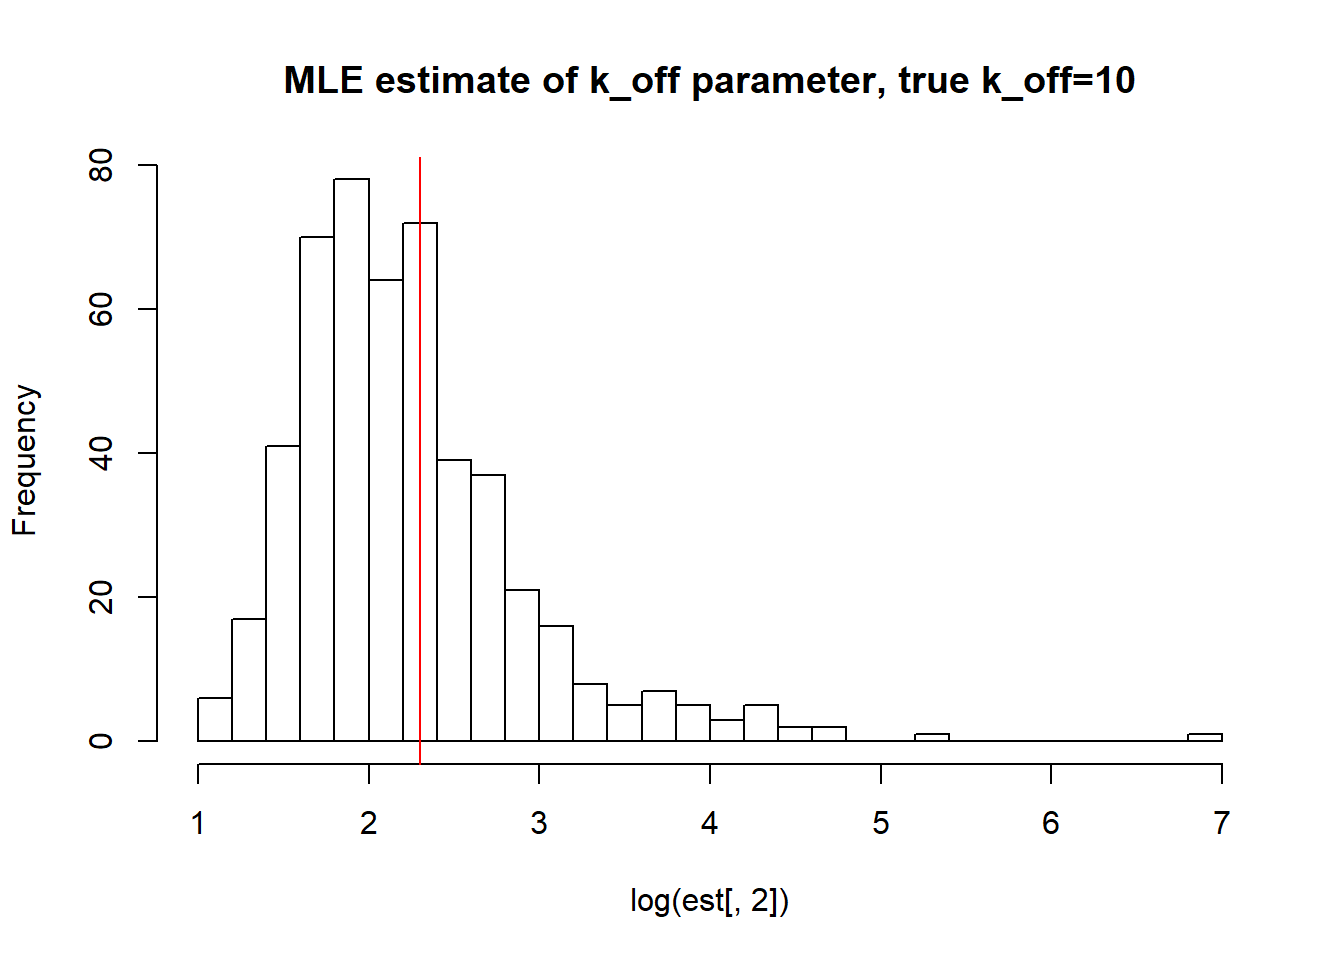
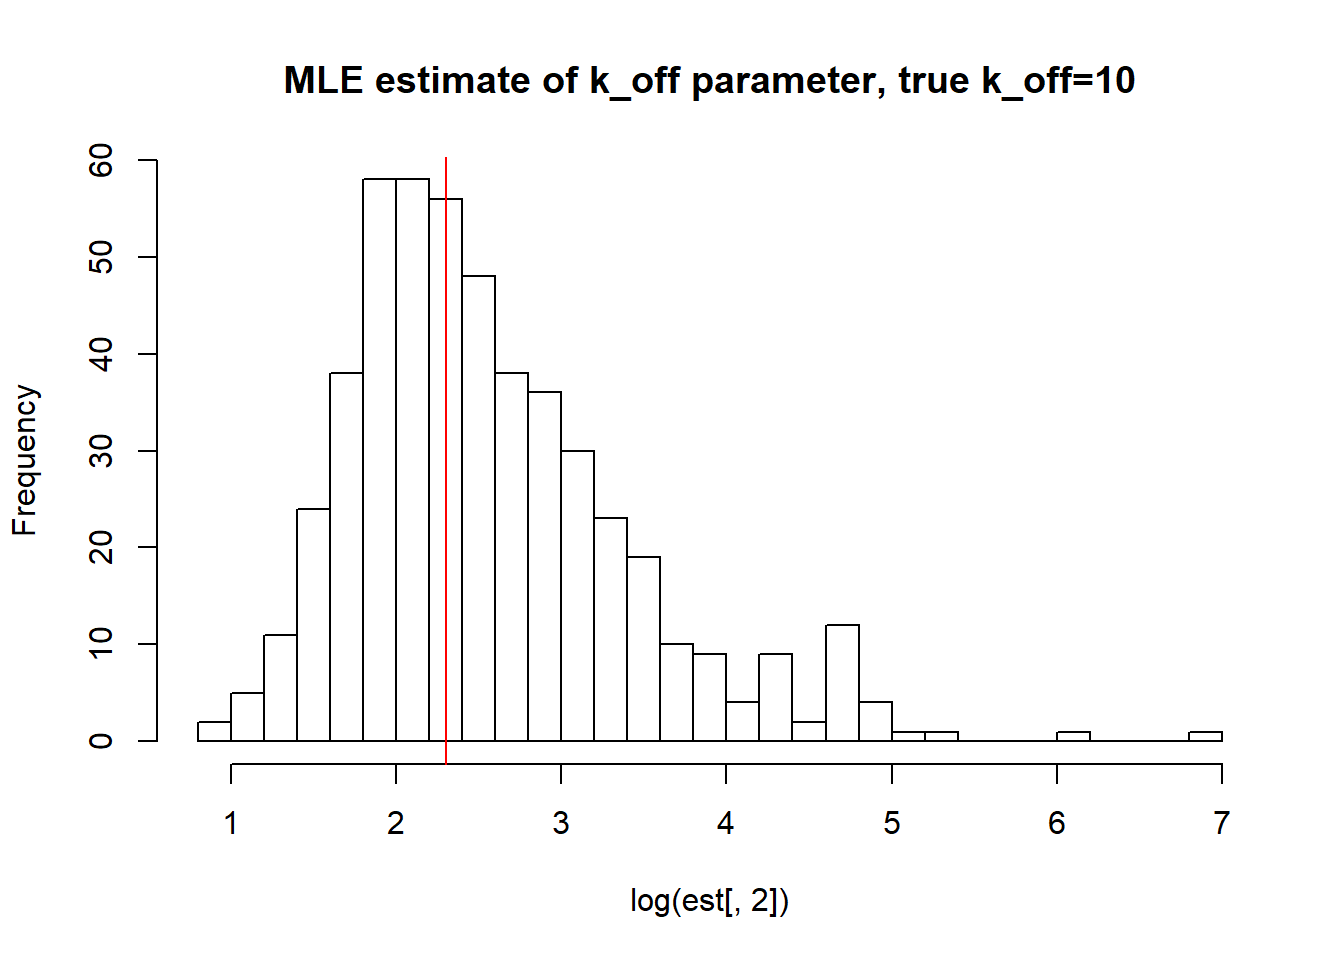
Build site.

diff --git a/docs/MLE_bootstrap.html b/docs/MLE_bootstrap.html
@@ -458,10 +458,10 @@ analysis/MLE.py
 <div class="panel panel-default">
 <div class="panel-heading">
 <p class="panel-title">
-<a data-toggle="collapse" data-parent="#workflowr-checks" href="#strongRepositoryversionstrongahrefhttpsgithubcomMargareth2407ThesissingleRNAtreeab73059f98ed74b5816c7fc37684c33936945d5atargetblankab73059a"> <span class="glyphicon glyphicon-ok text-success" aria-hidden="true"></span> <strong>Repository version:</strong> <a href="https://github.com/Margareth2407/Thesis_single_RNA/tree/ab73059f98ed74b5816c7fc37684c33936945d5a" target="_blank">ab73059</a> </a>
+<a data-toggle="collapse" data-parent="#workflowr-checks" href="#strongRepositoryversionstrongahrefhttpsgithubcomMargareth2407ThesissingleRNAtreed861a59b3615c3fab8299aaede39d0d78805e754targetblankd861a59a"> <span class="glyphicon glyphicon-ok text-success" aria-hidden="true"></span> <strong>Repository version:</strong> <a href="https://github.com/Margareth2407/Thesis_single_RNA/tree/d861a59b3615c3fab8299aaede39d0d78805e754" target="_blank">d861a59</a> </a>
 </p>
 </div>
[2 lines of base64/hex data omitted]
 <div class="panel-body">
 <p>
 Great! You are using Git for version control. Tracking code development and connecting the code version to the results is critical for reproducibility. The version displayed above was the version of the Git repository at the time these results were generated. <br><br> Note that you need to be careful to ensure that all relevant files for the analysis have been committed to Git prior to generating the results (you can use <code>wflow_publish</code> or <code>wflow_git_commit</code>). workflowr only checks the R Markdown file, but you know if there are other scripts or data files that it depends on. Below is the status of the Git repository when the results were generated:
@@ -470,11 +470,9 @@ Great! You are using Git for version control. Tracking code development and conn
 Ignored files:
     Ignored:    .RData
     Ignored:    .Rhistory
-    Ignored:    analysis/figure/
 
 Unstaged changes:
     Modified:   Data_sim.Rmd
-    Modified:   analysis/MLE.py
 
 </code></pre>
 <p>
@@ -525,44 +523,44 @@ hist(log(est[,1]),breaks=30, main=&quot;MLE estimate of k_on parameter,true k_on
 abline(v=log(0.1),col=&#39;red&#39;)</code></pre>
 <p><img src="figure/MLE_bootstrap.Rmd/unnamed-chunk-3-1.png" width="672" style="display: block; margin: auto;" /></p>
 <pre class="r"><code>paste(&quot;true k_on is 0.1;&quot;,&quot;k_on mean;&quot;,round(mean(est[,1],na.rm=TRUE),3),&quot;k_on median&quot;, round(median(est[,1],na.rm=TRUE),3),&quot;k_on st.deviation&quot;,round(sqrt(var(est[,1])),3))</code></pre>
-<pre><code>[1] &quot;true k_on is 0.1; k_on mean; 0.11 k_on median 0.109 k_on st.deviation 0.01&quot;</code></pre>
+<pre><code>[1] &quot;true k_on is 0.1; k_on mean; 0.088 k_on median 0.088 k_on st.deviation 0.009&quot;</code></pre>
 <pre class="r"><code>hist(log(est[,2]),breaks=30, main=&quot;MLE estimate of k_off parameter, true k_off=0.1&quot;)
 abline(v=log(0.1),col=&#39;red&#39;)</code></pre>
 <p><img src="figure/MLE_bootstrap.Rmd/unnamed-chunk-3-2.png" width="672" style="display: block; margin: auto;" /></p>
 <pre class="r"><code>paste(&quot;true k_off is 0.1;&quot;,&quot;k_off mean;&quot;,round(mean(est[,2],na.rm=TRUE),3),&quot;k_off median&quot;, round(median(est[,2],na.rm=TRUE),3),&quot;k_off st.deviation&quot;,round(sqrt(var(est[,2])),3))</code></pre>
-<pre><code>[1] &quot;true k_off is 0.1; k_off mean; 0.112 k_off median 0.111 k_off st.deviation 0.012&quot;</code></pre>
+<pre><code>[1] &quot;true k_off is 0.1; k_off mean; 0.079 k_off median 0.078 k_off st.deviation 0.01&quot;</code></pre>
 <pre class="r"><code>hist(log(est[,3]),breaks=30, main=&quot;MLE estimate of k_r parameter,true k_r=100&quot;)
 abline(v=log(100),col=&#39;red&#39;)</code></pre>
 <p><img src="figure/MLE_bootstrap.Rmd/unnamed-chunk-3-3.png" width="672" style="display: block; margin: auto;" /></p>
 <pre class="r"><code>paste(&quot;true k_r is 100;&quot;,&quot;k_r mean;&quot;,round(mean(est[,3],na.rm=TRUE),3),&quot;k_r median&quot;, round(median(est[,3],na.rm=TRUE),3),&quot;k_r st.deviation&quot;,round(sqrt(var(est[,3])),3))</code></pre>
-<pre><code>[1] &quot;true k_r is 100; k_r mean; 99.802 k_r median 99.826 k_r st.deviation 0.777&quot;</code></pre>
+<pre><code>[1] &quot;true k_r is 100; k_r mean; 100.445 k_r median 100.381 k_r st.deviation 0.825&quot;</code></pre>
 </div>
 <div id="ii-large-k_on-and-k_off-case" class="section level2">
 <h2>II) Large <span class="math inline">\(k_{on}\)</span> and <span class="math inline">\(k_{off}\)</span> case:</h2>
 <p><img src="figure/MLE_bootstrap.Rmd/unnamed-chunk-4-1.png" width="672" style="display: block; margin: auto;" /></p>
-<pre><code>[1] &quot;true k_on is 10; k_on mean; 8.146 k_on median 8.024 k_on st.deviation 1.514&quot;</code></pre>
+<pre><code>[1] &quot;true k_on is 10; k_on mean; 16.153 k_on median 16.332 k_on st.deviation 3.248&quot;</code></pre>
 <p><img src="figure/MLE_bootstrap.Rmd/unnamed-chunk-4-2.png" width="672" style="display: block; margin: auto;" /></p>
-<pre><code>[1] &quot;true k_off is 10; k_off mean; 5.848 k_off median 5.265 k_off st.deviation 3.064&quot;</code></pre>
+<pre><code>[1] &quot;true k_off is 10; k_off mean; 113.96 k_off median 53.095 k_off st.deviation 160.804&quot;</code></pre>
 <p><img src="figure/MLE_bootstrap.Rmd/unnamed-chunk-4-3.png" width="672" style="display: block; margin: auto;" /></p>
-<pre><code>[1] &quot;true k_r is 100; k_r mean; 83.463 k_r median 81.537 k_r st.deviation 10.192&quot;</code></pre>
+<pre><code>[1] &quot;true k_r is 100; k_r mean; 374.776 k_r median 216.205 k_r st.deviation 575.336&quot;</code></pre>
 </div>
 <div id="iii-large-value-if-k_off-and-small-k_on-case" class="section level2">
 <h2>III) Large value if <span class="math inline">\(k_{off}\)</span> and small <span class="math inline">\(k_{on}\)</span> case:</h2>
 <p><img src="figure/MLE_bootstrap.Rmd/unnamed-chunk-5-1.png" width="672" style="display: block; margin: auto;" /></p>
-<pre><code>[1] &quot;true k_on is 1; k_on mean; 1.054 k_on median 1.051 k_on st.deviation 0.099&quot;</code></pre>
+<pre><code>[1] &quot;true k_on is 1; k_on mean; 1.032 k_on median 1.029 k_on st.deviation 0.1&quot;</code></pre>
 <p><img src="figure/MLE_bootstrap.Rmd/unnamed-chunk-5-2.png" width="672" style="display: block; margin: auto;" /></p>
-<pre><code>[1] &quot;true k_off is 10; k_off mean; 14.419 k_off median 8.166 k_off st.deviation 46.742&quot;</code></pre>
+<pre><code>[1] &quot;true k_off is 10; k_off mean; 22.109 k_off median 10.878 k_off st.deviation 53.564&quot;</code></pre>
 <p><img src="figure/MLE_bootstrap.Rmd/unnamed-chunk-5-3.png" width="672" style="display: block; margin: auto;" /></p>
-<pre><code>[1] &quot;true k_r is 100; k_r mean; 130.134 k_r median 81.182 k_r st.deviation 404.122&quot;</code></pre>
+<pre><code>[1] &quot;true k_r is 100; k_r mean; 203.348 k_r median 112.992 k_r st.deviation 503.098&quot;</code></pre>
 </div>
 <div id="iv-small-value-if-k_off-and-big-k_on" class="section level2">
 <h2>IV) Small value if <span class="math inline">\(k_{off}\)</span> and big <span class="math inline">\(k_{on}\)</span></h2>
 <p><img src="figure/MLE_bootstrap.Rmd/unnamed-chunk-6-1.png" width="672" style="display: block; margin: auto;" /></p>
-<pre><code>[1] &quot;true k_on is 10; k_on mean; 13.441 k_on median 12.866 k_on st.deviation 3.601&quot;</code></pre>
+<pre><code>[1] &quot;true k_on is 10; k_on mean; 16.879 k_on median 15.163 k_on st.deviation 6.962&quot;</code></pre>
 <p><img src="figure/MLE_bootstrap.Rmd/unnamed-chunk-6-2.png" width="672" style="display: block; margin: auto;" /></p>
-<pre><code>[1] &quot;true k_off is 1; k_off mean; 2.209 k_off median 1.873 k_off st.deviation 1.637&quot;</code></pre>
+<pre><code>[1] &quot;true k_off is 1; k_off mean; 1.998 k_off median 1.408 k_off st.deviation 2.059&quot;</code></pre>
 <p><img src="figure/MLE_bootstrap.Rmd/unnamed-chunk-6-3.png" width="672" style="display: block; margin: auto;" /></p>
-<pre><code>[1] &quot;true k_r is 100; k_r mean; 104.362 k_r median 103.612 k_r st.deviation 4.515&quot;</code></pre>
+<pre><code>[1] &quot;true k_r is 100; k_r mean; 100.701 k_r median 100.014 k_r st.deviation 5.775&quot;</code></pre>
 <br>
 <p>
 <button type="button" class="btn btn-default btn-workflowr btn-workflowr-sessioninfo" data-toggle="collapse" data-target="#workflowr-sessioninfo" style="display: block;">
